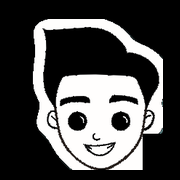
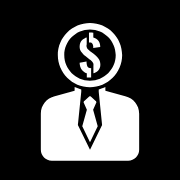
Versão 0.32.76: ícone novo do atalho FUN COPY (banqueiro em fundo preto)
Claude-Session: https://claude.ai/code/session_019JSiYDHu13ZpqfibgatijG

Changed region(s): [[0.1667, 0.0833, 0.9167, 0.9444]]

diff --git a/web/app.html b/web/app.html
@@ -1210,6 +1210,7 @@
           <p><b>Real:</b> a PumpPortal monta a transação, o servidor assina com a SUA carteira (a chave nunca sai do servidor nem volta para a tela) e envia. Fora da pump.fun, pela Jupiter. Limites: valor por compra, posições ao mesmo tempo e perda máxima no dia. Começa desligado e desliga sozinho a cada reinício.</p>
           <p><b>Privacidade:</b> cada conta só vê os próprios dados — o banco bloqueia o resto. Chaves ficam criptografadas (AES-256-GCM) com uma chave mestra que só existe no servidor.</p>
           <p><b>Atenção:</b> memecoins da pump.fun são extremamente arriscadas — a maioria vai a zero e copiar sempre tem atraso. Use a simulação por bastante tempo antes de pensar em dinheiro real.</p>
+          <p class="muted small">Ícone do app: "Banker" de Symbolon, do Noun Project (CC BY 3.0).</p>
         </div></div>
       </section>
       <footer class="dim mono" style="font-size:11.5px;padding:10px 2px 24px" id="foot"></footer>

diff --git a/app/version.py b/app/version.py
@@ -1,2 +1,2 @@
 """Versão mostrada no rodapé do painel e em /health (para conferir se o redeploy pegou)."""
-VERSION = "0.32.75 · 2026-10-29 · celular em formato de app e atalho FUN COPY"
+VERSION = "0.32.76 · 2026-10-29 · ícone novo do atalho FUN COPY"

diff --git a/docs/DEPENDENCIAS.md b/docs/DEPENDENCIAS.md
@@ -1,8 +1,8 @@
 # Inventário de dependências - PUMP FUN COPY
 
 Emissão: **2026-10-29**; revisão documental **2.0**.
-Aplicação: **0.32.75 · 2026-10-29 · celular em formato de app e atalho FUN COPY**.
-Referência Git na emissão: `990367de4d19ea8f2ff4415ec8b5a1cad6f63d87`; fontes locais identificadas por SHA-256 no JSON.
+Aplicação: **0.32.76 · 2026-10-29 · ícone novo do atalho FUN COPY**.
+Referência Git na emissão: `a414b332a2c57a5a3512182254199e79c01870d6`; fontes locais identificadas por SHA-256 no JSON.
 Emissão: OpenAI Codex, família GPT-6; identificador exato do modelo não exposto nesta sessão. Auditoria original: OpenAI Codex, família GPT-6.
 
 ## Quantidade e significado

diff --git a/CLAUDE.md b/CLAUDE.md
@@ -1333,3 +1333,5 @@ Esta descrição não autoriza o agente a executar esses passos. Os arquivos do 
   Atalho do iPhone: `apple-mobile-web-app-title` = FUN COPY, `web/apple-touch-icon.png` (180), `web/icon-192.png`/`icon-512.png` (mascote do
   print do dono em fundo preto) e `web/manifest.json` (standalone, start_url /app) em `app.html` e `index.html`; `viewport-fit=cover`;
   `html.pwa` quando aberto pelo ícone. `tests/test_app_celular.py`.
+- 0.32.76: ícones do atalho (`web/apple-touch-icon.png`, `icon-192.png`, `icon-512.png`) trocados pelo "Banker" (Symbolon, Noun Project, CC BY 3.0:
+  crédito obrigatório, fica em Como funciona) em branco sobre preto, a pedido do dono.
